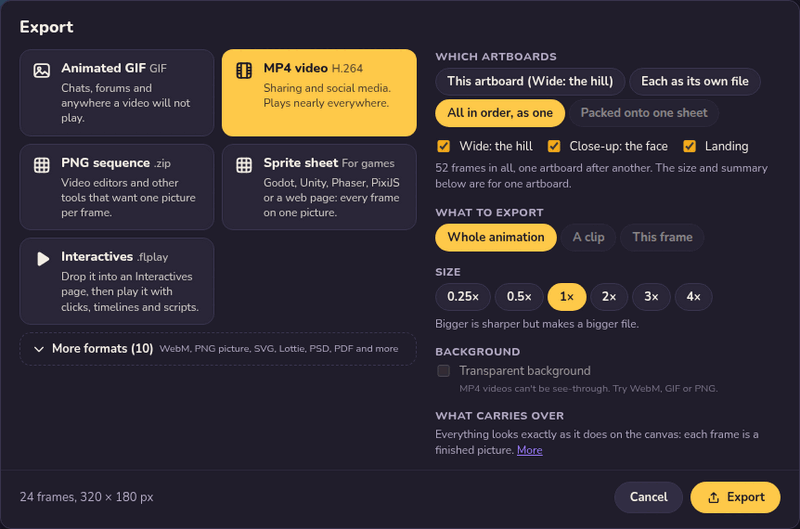
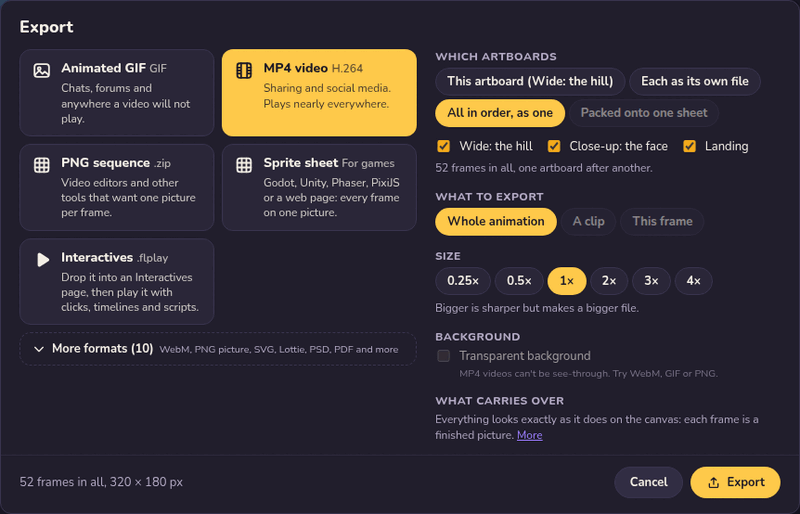
Export footer shows the whole joined film for artboards; selected text stays selected across keys while playing or scrubbing

diff --git a/src/export/ExportDialog.tsx b/src/export/ExportDialog.tsx
@@ -28,6 +28,7 @@ import { docDpi, formatSize } from '../core/units';
 import { usePrefs } from '../ui/prefs';
 import { templateExport } from '../templates/setup';
 import { ArtboardExportPicker } from '../artboards/ExportPicker';
+import { artboardExport, artboardSummary, planArtboards } from '../artboards/export';
 import { pixelExportStart } from '../pixel/workspace';
 
 /** Last time's settings, repaired so they still make sense for this document. */
@@ -87,6 +88,9 @@ function ExportDialog({ close, initial, autoStart }: { close: () => void; initia
   const showMore = more || moreChosen;
   const info = formatInfo(s.format);
   const plan = useMemo(() => planExport(doc, s, frame), [doc, s, frame]);
+  // Exporting several artboards: the footer tells about all of them (for "as one", the whole joined film).
+  const abChoice = artboardExport.use((c) => c);
+  const abPlan = useMemo(() => planArtboards(store().rootDoc(), s, frame), [open, s, frame, abChoice]);
   const video = s.format === 'mp4' || s.format === 'webm' || s.format === 'prores';
   const videoSize = useMemo(() => planExport(doc, { ...s, format: 'mp4' }, frame), [doc, s, frame]);
 
@@ -124,7 +128,7 @@ function ExportDialog({ close, initial, autoStart }: { close: () => void; initia
     setError(null);
     const ac = new AbortController();
     abort.current = ac;
-    setProgress({ done: 0, total: plan.count, label: 'Getting ready' });
+    setProgress({ done: 0, total: abPlan?.frames ?? plan.count, label: 'Getting ready' });
     try {
       const outcome = await exportDocument(s, ac.signal, setProgress);
       if (outcome === 'done' || autoStart) return close();
@@ -156,7 +160,9 @@ function ExportDialog({ close, initial, autoStart }: { close: () => void; initia
   // With units other than pixels, also say how big it prints: the same size at any scale, just more dots per inch.
   const outDpi = Math.round(docDpi(doc) * s.scale);
   const printed = units === 'px' ? '' : `, ${formatSize(plan.width, plan.height, units, outDpi)} at ${outDpi} DPI`;
-  const summary = `${frames} frame${frames === 1 ? '' : 's'}, ${plan.width} × ${plan.height} px${printed}`;
+  const joinedPrinted = abPlan?.size && units !== 'px' ? `, ${formatSize(abPlan.size.width, abPlan.size.height, units, outDpi)} at ${outDpi} DPI` : '';
+  const summary = abPlan ? artboardSummary(abPlan, joinedPrinted) : `${frames} frame${frames === 1 ? '' : 's'}, ${plan.width} × ${plan.height} px${printed}`;
+  const problem = abPlan ? abPlan.problem : plan.problem;
   const noClips = doc.clips.length === 0;
   const io = inOutRange(doc);
   // Only for the top level: inside a symbol the length is the symbol's.
@@ -510,13 +516,13 @@ function ExportDialog({ close, initial, autoStart }: { close: () => void; initia
         </QuillSays>
       )}
       <div className="io-foot ex-foot">
-        <span className={`ex-summary${plan.problem ? ' ex-problem' : ''}`} aria-live="polite">
-          {plan.problem ?? summary}
+        <span className={`ex-summary${problem ? ' ex-problem' : ''}`} aria-live="polite">
+          {problem ?? summary}
         </span>
         <button type="button" className="io-btn" onClick={close}>
           Cancel
         </button>
-        <button type="button" className="io-btn io-primary ex-go" disabled={!!plan.problem || !desktop()} title={!desktop() ? 'Exporting works in the Frameling desktop app.' : undefined} onClick={() => void start()}>
+        <button type="button" className="io-btn io-primary ex-go" disabled={!!problem || !desktop()} title={!desktop() ? 'Exporting works in the Frameling desktop app.' : undefined} onClick={() => void start()}>
           <Icon name="export" size={16} /> Export
         </button>
       </div>

diff --git a/test/text/follow-selection.test.ts b/test/text/follow-selection.test.ts
@@ -1,0 +1,85 @@
+import { describe, expect, it } from 'vitest';
+import type { PathShape, VectorDrawing } from '../../src/core/format';
+import { newDoc, newVectorDrawing } from '../../src/core/doc';
+import { resetStore, store } from '../../src/core/store';
+import { followTextSelection } from '../../src/core/followSelection';
+import { newTextShape } from '../../src/text/model';
+import { selectedTexts } from '../../src/text/ops';
+
+const box = (id: string): PathShape => ({ id, type: 'path', paths: [{ closed: true, points: [{ x: 0, y: 0 }, { x: 5, y: 0 }, { x: 5, y: 5 }] }], fill: '#f00', stroke: null, opacity: 1 });
+const txt = (id: string, text: string) => newTextShape(id, { x: 10, y: 20 }, { text });
+
+// Key 1 (frames 0-4): a box and "Hello". Key 2 (5-9): copies with new ids, "Hello" moved. Key 3 (10-14): no text.
+function setup() {
+  const doc = newDoc({ width: 200, height: 100, length: 15 });
+  const mk = (shapes: VectorDrawing['shapes']) => {
+    const d = newVectorDrawing();
+    d.shapes.push(...shapes);
+    doc.drawings[d.id] = d;
+    return d;
+  };
+  const a = mk([box('a-box'), txt('a-text', 'Hello')]);
+  const b = mk([box('b-box'), txt('b-text', 'Hello')]);
+  const c = mk([box('c-box')]);
+  doc.layers[0].cels = [
+    { id: 'k1', start: 0, length: 5, drawingId: a.id, tween: { kind: 'shape', ease: 'linear' } },
+    { id: 'k2', start: 5, length: 5, drawingId: b.id },
+    { id: 'k3', start: 10, length: 5, drawingId: c.id },
+  ];
+  resetStore(doc);
+  store().setUi({ activeLayerId: doc.layers[0].id, frame: 1, selection: ['a-text'], tool: 'text' });
+  return doc;
+}
+
+const sel = () => store().get().ui.selection;
+
+describe('selected text stays selected while the playhead moves', () => {
+  it('follows the text into the next key, so the Text panel still has it', () => {
+    setup();
+    store().setUi({ frame: 5 });
+    expect(sel()).toEqual(['b-text']);
+    expect(selectedTexts().map((t) => t.id)).toEqual(['b-text']);
+  });
+
+  it('keeps it through playback ticks and scrubbing back and forth', () => {
+    setup();
+    for (let f = 2; f <= 8; f++) store().setUi({ frame: f });
+    expect(sel()).toEqual(['b-text']);
+    store().setUi({ frame: 0 });
+    expect(sel()).toEqual(['a-text']);
+    store().setUi({ frame: 9 });
+    expect(selectedTexts()).toHaveLength(1);
+  });
+
+  it('keeps the same selection inside one key', () => {
+    setup();
+    store().setUi({ frame: 3 });
+    expect(sel()).toEqual(['a-text']);
+  });
+
+  it('lets go of nothing it should not: no text on the new frame leaves the selection as it was', () => {
+    setup();
+    store().setUi({ frame: 12 });
+    expect(selectedTexts()).toHaveLength(0);
+    expect(sel()).toEqual(['a-text']);
+    // Back where the text is, it is selected again.
+    store().setUi({ frame: 2 });
+    expect(selectedTexts().map((t) => t.id)).toEqual(['a-text']);
+  });
+
+  it('leaves other selections alone', () => {
+    setup();
+    store().setUi({ selection: ['a-box'] });
+    store().setUi({ frame: 6 });
+    expect(sel()).toEqual(['a-box']);
+  });
+
+  it('respects a selection set together with the frame, and another layer', () => {
+    setup();
+    store().setUi({ frame: 6, selection: [] });
+    expect(sel()).toEqual([]);
+    store().setUi({ frame: 1, selection: ['a-text'] });
+    store().setUi({ frame: 6, activeLayerId: 'other' });
+    expect(sel()).toEqual(['a-text']);
+  });
+});

diff --git a/test/artboards/export.test.ts b/test/artboards/export.test.ts
@@ -8,6 +8,7 @@ import { addArtboard, activeId, artboardDoc, artboardsOf, findArtboard } from '.
 import { packArtboardAtlas } from '../../src/artboards/pack';
 import { buildReel, reelAt } from '../../src/artboards/player';
 import { goToArtboard, installArtboards, moveArtboardTo, openArtboardUnder, resetArtboardView, resizeArtboard } from '../../src/artboards/ops';
+import { artboardExport, artboardSummary, planArtboards, setArtboardExport } from '../../src/artboards/export';
 import { setViewport } from '../../src/canvas/controller';
 
 function img(w: number, h: number, fill: number): RawImage {
@@ -162,5 +163,61 @@ describe('the timeline follows the artboard you press on', () => {
     expect(openArtboardUnder({ x: -500, y: -500 }, 'brush')).toBe(false);
     expect(activeId(store().get().doc)).toBe(a.id);
     expect(b).toBeDefined();
+  });
+});
+
+describe('the Export footer for several artboards', () => {
+  const setup = (format: 'gif' | 'sheet') => {
+    resetArtboardView();
+    const doc = sprites();
+    resetStore(doc);
+    artboardExport.set({ mode: 'one', ids: null, docId: '' });
+    return { doc: store().rootDoc(), s: { ...defaultSettings(doc), format, range: 'all' as const, scale: 1 } };
+  };
+
+  it('has nothing to add for just the open artboard', () => {
+    const { doc, s } = setup('gif');
+    expect(planArtboards(doc, s, 0)).toBeNull();
+  });
+
+  it('as one: the frames of every ticked artboard and the first shot size', () => {
+    const { doc, s } = setup('gif');
+    setArtboardExport({ mode: 'joined' });
+    const a = planArtboards(store().rootDoc(), s, 0)!;
+    expect(a.frames).toBe(5);
+    expect(a.size).toEqual({ width: 16, height: 16 });
+    expect(a.problem).toBeNull();
+    expect(artboardSummary(a)).toBe('5 frames in all, 16 × 16 px');
+    expect(planExport(doc, s, 0).count).toBe(2);
+    // Untick the first: the film is now Run alone, in its own size.
+    const [, run] = artboardsOf(doc);
+    setArtboardExport({ ids: [run.id] });
+    const b = planArtboards(store().rootDoc(), s, 0)!;
+    expect(b.frames).toBe(3);
+    expect(b.size).toEqual({ width: 32, height: 16 });
+    // Nothing ticked is a problem, not a silent zero.
+    setArtboardExport({ ids: [] });
+    expect(planArtboards(store().rootDoc(), s, 0)!.problem).toMatch(/at least one/);
+  });
+
+  it('as one: the size follows the export scale', () => {
+    const { s } = setup('gif');
+    setArtboardExport({ mode: 'joined' });
+    expect(planArtboards(store().rootDoc(), { ...s, scale: 2 }, 0)!.size).toEqual({ width: 32, height: 32 });
+  });
+
+  it('each as its own file: files and frames in all, no single size', () => {
+    const { s } = setup('gif');
+    setArtboardExport({ mode: 'each' });
+    const a = planArtboards(store().rootDoc(), s, 0)!;
+    expect([a.files, a.frames, a.size]).toEqual([2, 5, null]);
+    expect(artboardSummary(a)).toBe('2 files, 5 frames in all');
+  });
+
+  it('packed onto one sheet: every frame on one sheet', () => {
+    const { s } = setup('sheet');
+    setArtboardExport({ mode: 'atlas' });
+    const a = planArtboards(store().rootDoc(), s, 0)!;
+    expect(artboardSummary(a)).toBe('5 frames on one sheet');
   });
 });

diff --git a/src/artboards/export.ts b/src/artboards/export.ts
@@ -85,6 +85,53 @@ function chosenIds(doc: Doc, c: ArtboardExportChoice): Id[] {
   return c.ids ? all.filter((id) => c.ids!.includes(id)) : all;
 }
 
+/** What a several-artboards export will make, for the dialog's footer. */
+export interface ArtboardPlan {
+  mode: ArtboardExportMode;
+  /** How many files come out. */
+  files: number;
+  /** Frames in all across the ticked artboards. */
+  frames: number;
+  /** The picture's size in pixels: only for "all in order, as one" (the first shot's size, at the chosen scale). */
+  size: { width: number; height: number } | null;
+  problem: string | null;
+}
+
+/**
+ * The plan for the whole artboard export, or null when it is just the open artboard (then the dialog's own plan
+ * says it all). "As one" is planned on the joined film itself, so its size and frames are what comes out.
+ */
+export function planArtboards(root: Doc, settings: ExportSettings, currentFrame: number): ArtboardPlan | null {
+  const mode = effectiveMode(root, settings);
+  if (mode === 'one') return null;
+  const ids = chosenIds(root, currentArtboardExport(root));
+  if (!ids.length) return { mode, files: 0, frames: 0, size: null, problem: 'Pick at least one artboard to export.' };
+  if (mode === 'joined') {
+    const r = joinShots(root, ids);
+    if ('problem' in r) return { mode, files: 1, frames: 0, size: null, problem: r.problem };
+    const p = planExport(r.doc, settings, currentFrame);
+    return { mode, files: 1, frames: p.count, size: { width: p.width, height: p.height }, problem: p.problem };
+  }
+  if (mode === 'atlas') return { mode, files: 1, frames: ids.reduce((t, id) => t + artboardDoc(root, id).length, 0), size: null, problem: null };
+  let frames = 0;
+  let problem: string | null = null;
+  for (const id of ids) {
+    const doc = artboardDoc(root, id);
+    const p = planExport(doc, settings, rememberedFrame(id, doc.length));
+    frames += p.count;
+    if (p.problem && !problem) problem = `${exportNameOf(root, id)}: ${p.problem}`;
+  }
+  return { mode, files: ids.length, frames, size: null, problem };
+}
+
+/** The footer line for an artboard export (no size for several different files; `printed` is appended to a size). */
+export function artboardSummary(a: ArtboardPlan, printed = ''): string {
+  const n = (k: number, one: string) => `${k} ${one}${k === 1 ? '' : 's'}`;
+  if (a.mode === 'joined' && a.size) return `${n(a.frames, 'frame')} in all, ${a.size.width} × ${a.size.height} px${printed}`;
+  if (a.mode === 'atlas') return `${n(a.frames, 'frame')} on one sheet`;
+  return `${n(a.files, 'file')}, ${n(a.frames, 'frame')} in all`;
+}
+
 /**
  * Exports several artboards. `exportOne` is the Export dialog's ordinary export of a given document (it asks where
  * to save). Resolves like it: 'done', 'cancelled' or 'stopped'.

diff --git a/src/core/followSelection.ts b/src/core/followSelection.ts
@@ -1,0 +1,30 @@
+/**
+ * Keeping selected text selected while the playhead moves. A new key on a layer is a copy of the one before with new
+ * shape ids, so a selection by id would be lost the moment the playhead crosses into it. A selected text shape is
+ * carried over to the text at the same place in the new key's shapes, when there is one. Pure: no store, no DOM.
+ */
+import type { Doc, Id } from './format';
+import { celAt, findLayer } from './doc';
+
+/** The selection to use on `to` instead of `selection`, or null when it should stay as it is. */
+export function followTextSelection(doc: Doc, layerId: Id | null, selection: Id[], from: number, to: number): Id[] | null {
+  if (!selection.length || from === to) return null;
+  const layer = findLayer(doc, layerId) ?? doc.layers[doc.layers.length - 1];
+  if (!layer) return null;
+  const a = celAt(layer, from);
+  const b = celAt(layer, to);
+  if (!a || !b || a.drawingId === b.drawingId) return null;
+  const da = doc.drawings[a.drawingId];
+  const db = doc.drawings[b.drawingId];
+  if (da?.kind !== 'vector' || db?.kind !== 'vector') return null;
+  let changed = false;
+  const next = selection.map((id) => {
+    const i = da.shapes.findIndex((s) => s.id === id);
+    if (i < 0 || da.shapes[i].type !== 'text') return id;
+    const there = db.shapes[i];
+    if (there?.type !== 'text' || there.id === id) return id;
+    changed = true;
+    return there.id;
+  });
+  return changed ? next : null;
+}

diff --git a/src/core/store.ts b/src/core/store.ts
@@ -10,6 +10,7 @@ import { applyPatches, enablePatches, produceWithPatches, setAutoFreeze, type Dr
 import { useSyncExternalStore } from 'react';
 import type { BrushSettings, Color, Doc, Id } from './format';
 import { DEFAULT_BRUSH, newDoc } from './doc';
+import { followTextSelection } from './followSelection';
 
 enablePatches();
 // Pixel drawings hold typed arrays, which immer can't freeze; we never mutate state outside update() anyway.
@@ -171,7 +172,14 @@ export class Store {
   /** Changes UI state (no undo). */
   setUi(patch: Partial<UiState> | ((ui: UiState) => Partial<UiState>)): void {
     const p = typeof patch === 'function' ? patch(this.state.ui) : patch;
-    this.state = { ...this.state, ui: { ...this.state.ui, ...p } };
+    const was = this.state.ui;
+    let ui = { ...was, ...p };
+    // Moving the playhead (or playing) keeps selected text selected on the next key.
+    if (p.frame !== undefined && p.frame !== was.frame && !('selection' in p) && ui.activeLayerId === was.activeLayerId) {
+      const kept = followTextSelection(this.state.doc, ui.activeLayerId, was.selection, was.frame, p.frame);
+      if (kept) ui = { ...ui, selection: kept };
+    }
+    this.state = { ...this.state, ui };
     this.emit();
   }
 

diff --git a/src/artboards/ExportPicker.tsx b/src/artboards/ExportPicker.tsx
@@ -65,7 +65,7 @@ export function ArtboardExportPicker({ settings }: { settings: ExportSettings })
           </p>
         </div>
       )}
-      {mode === 'joined' && sizes.size <= 1 && <p className="ex-note">{total} frames in all, one artboard after another. The size and summary below are for one artboard.</p>}
+      {mode === 'joined' && sizes.size <= 1 && <p className="ex-note">{total} frames in all, one artboard after another.</p>}
       {mode === 'atlas' && <p className="ex-note">Each artboard becomes an animation in the JSON, named after it; its clips come along as "artboard/clip".</p>}
       {mode === 'each' && <p className="ex-note">{chosen.size} files, each named after its artboard (or its export name).</p>}
     </fieldset>
